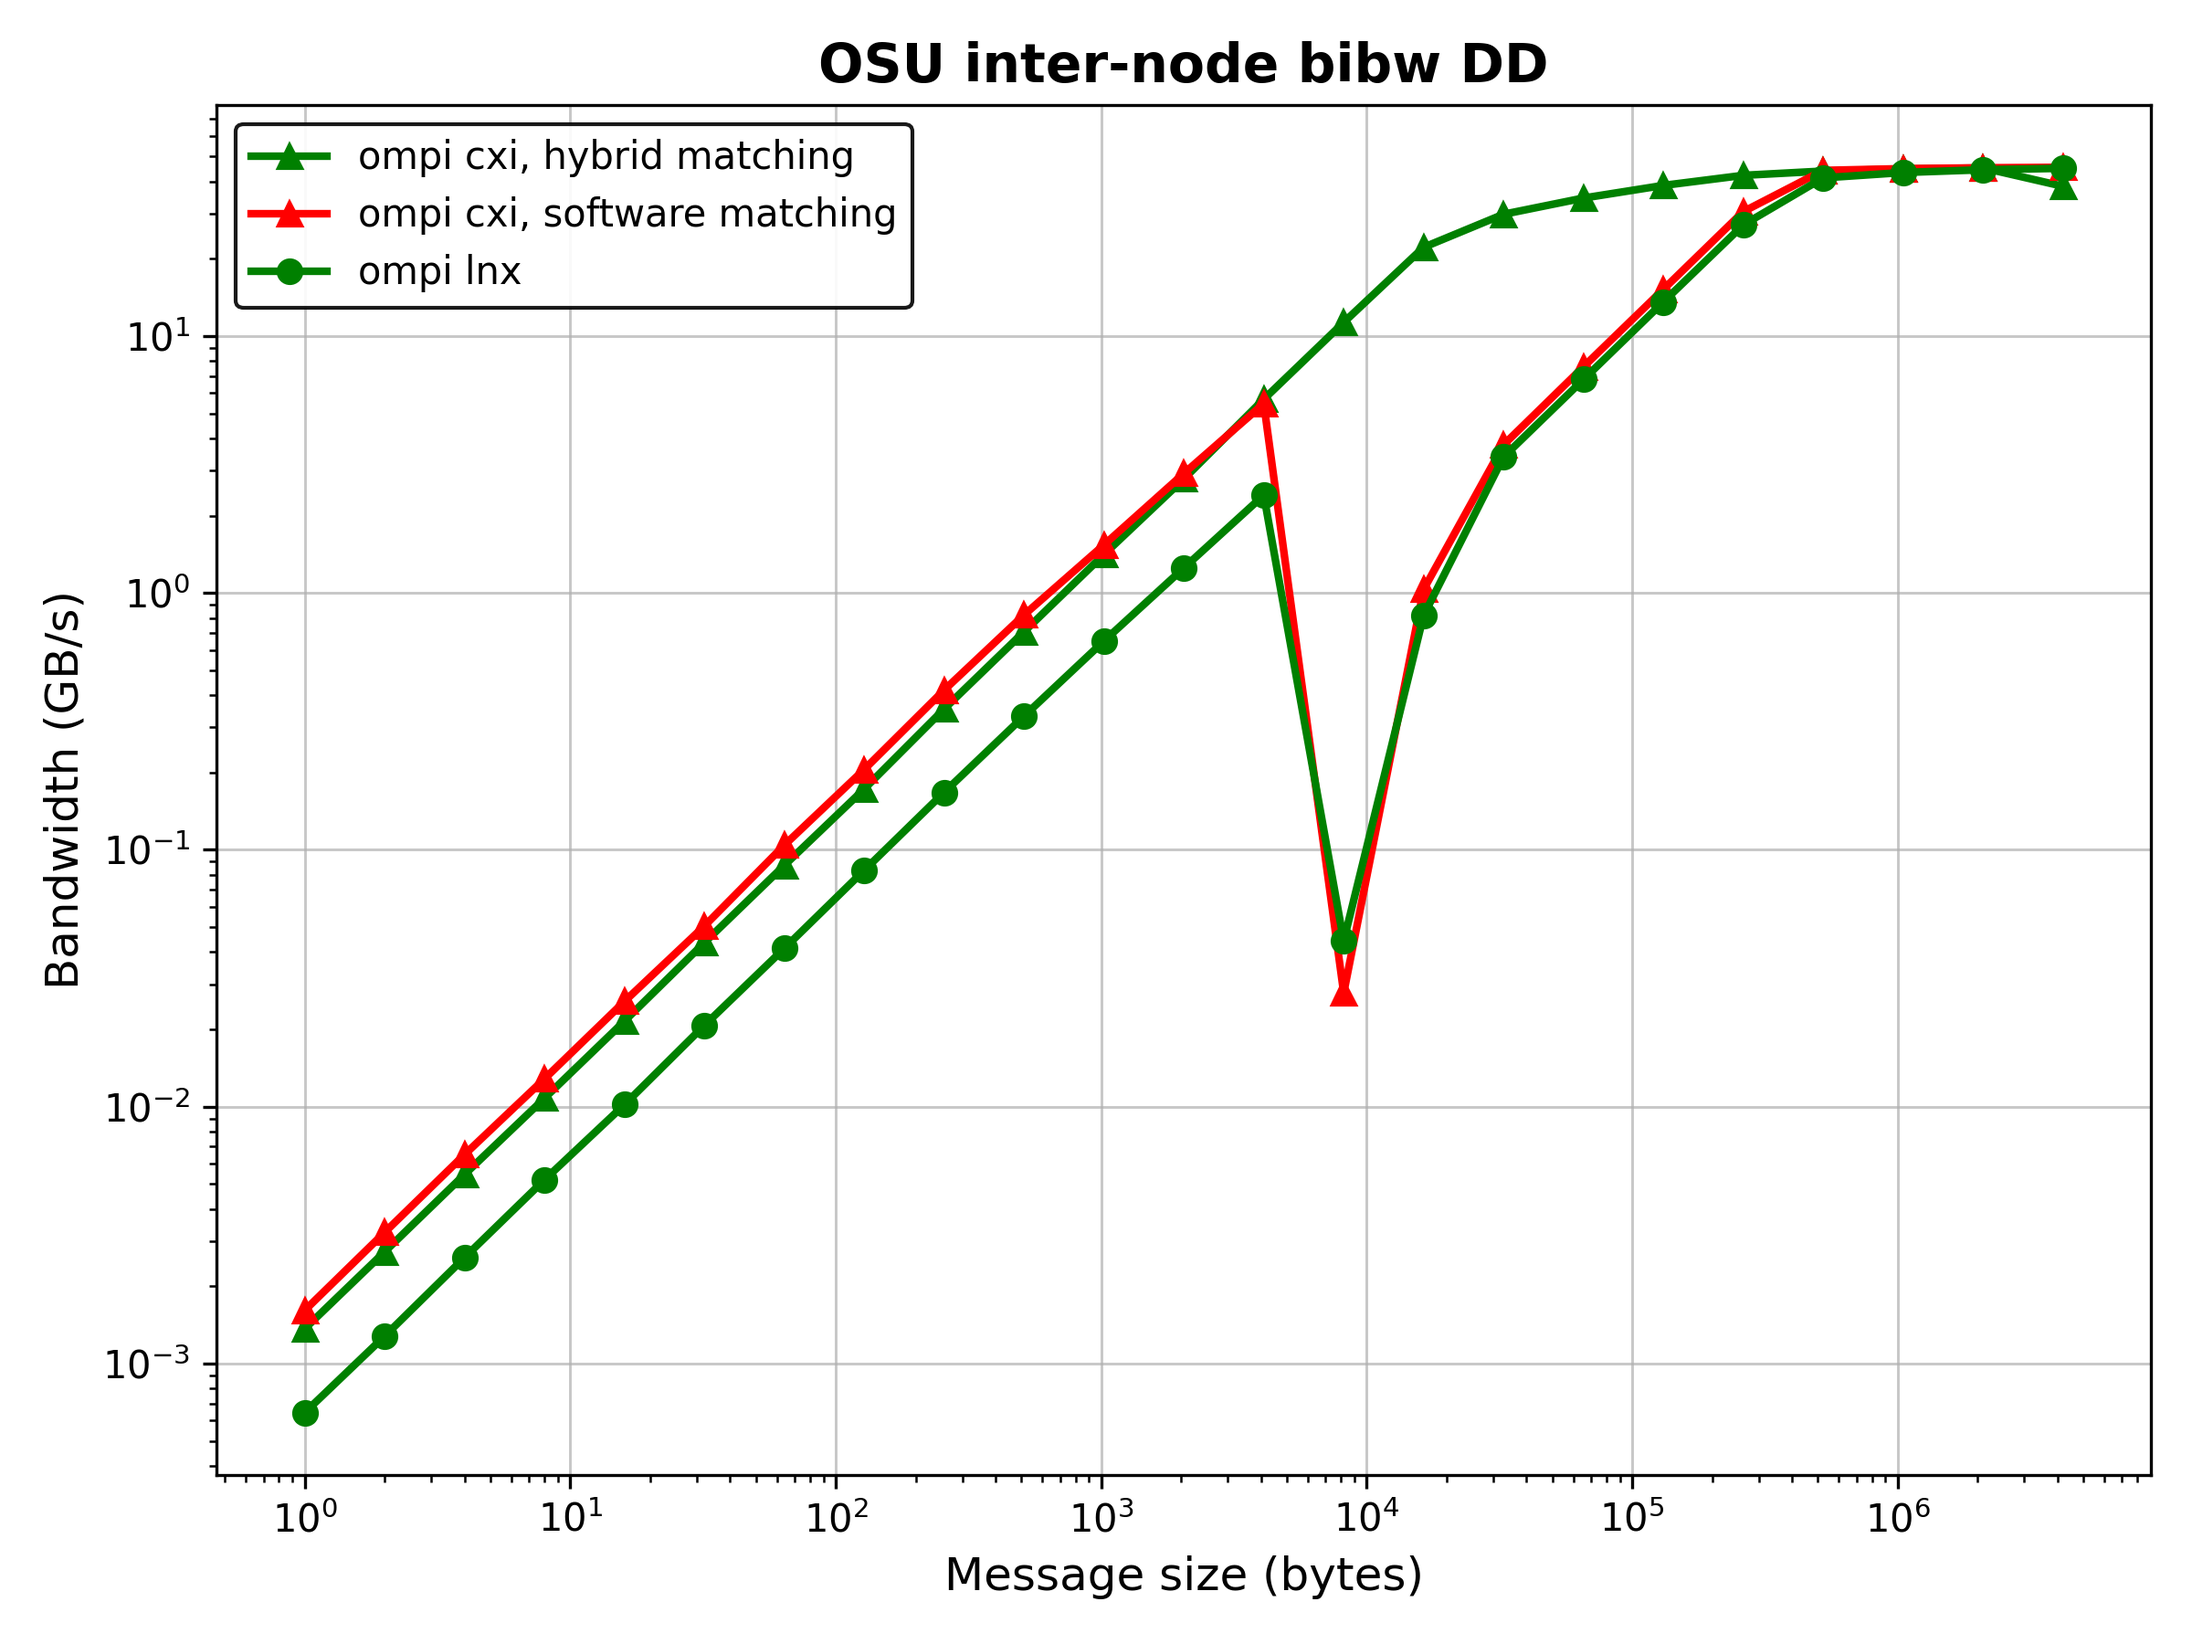
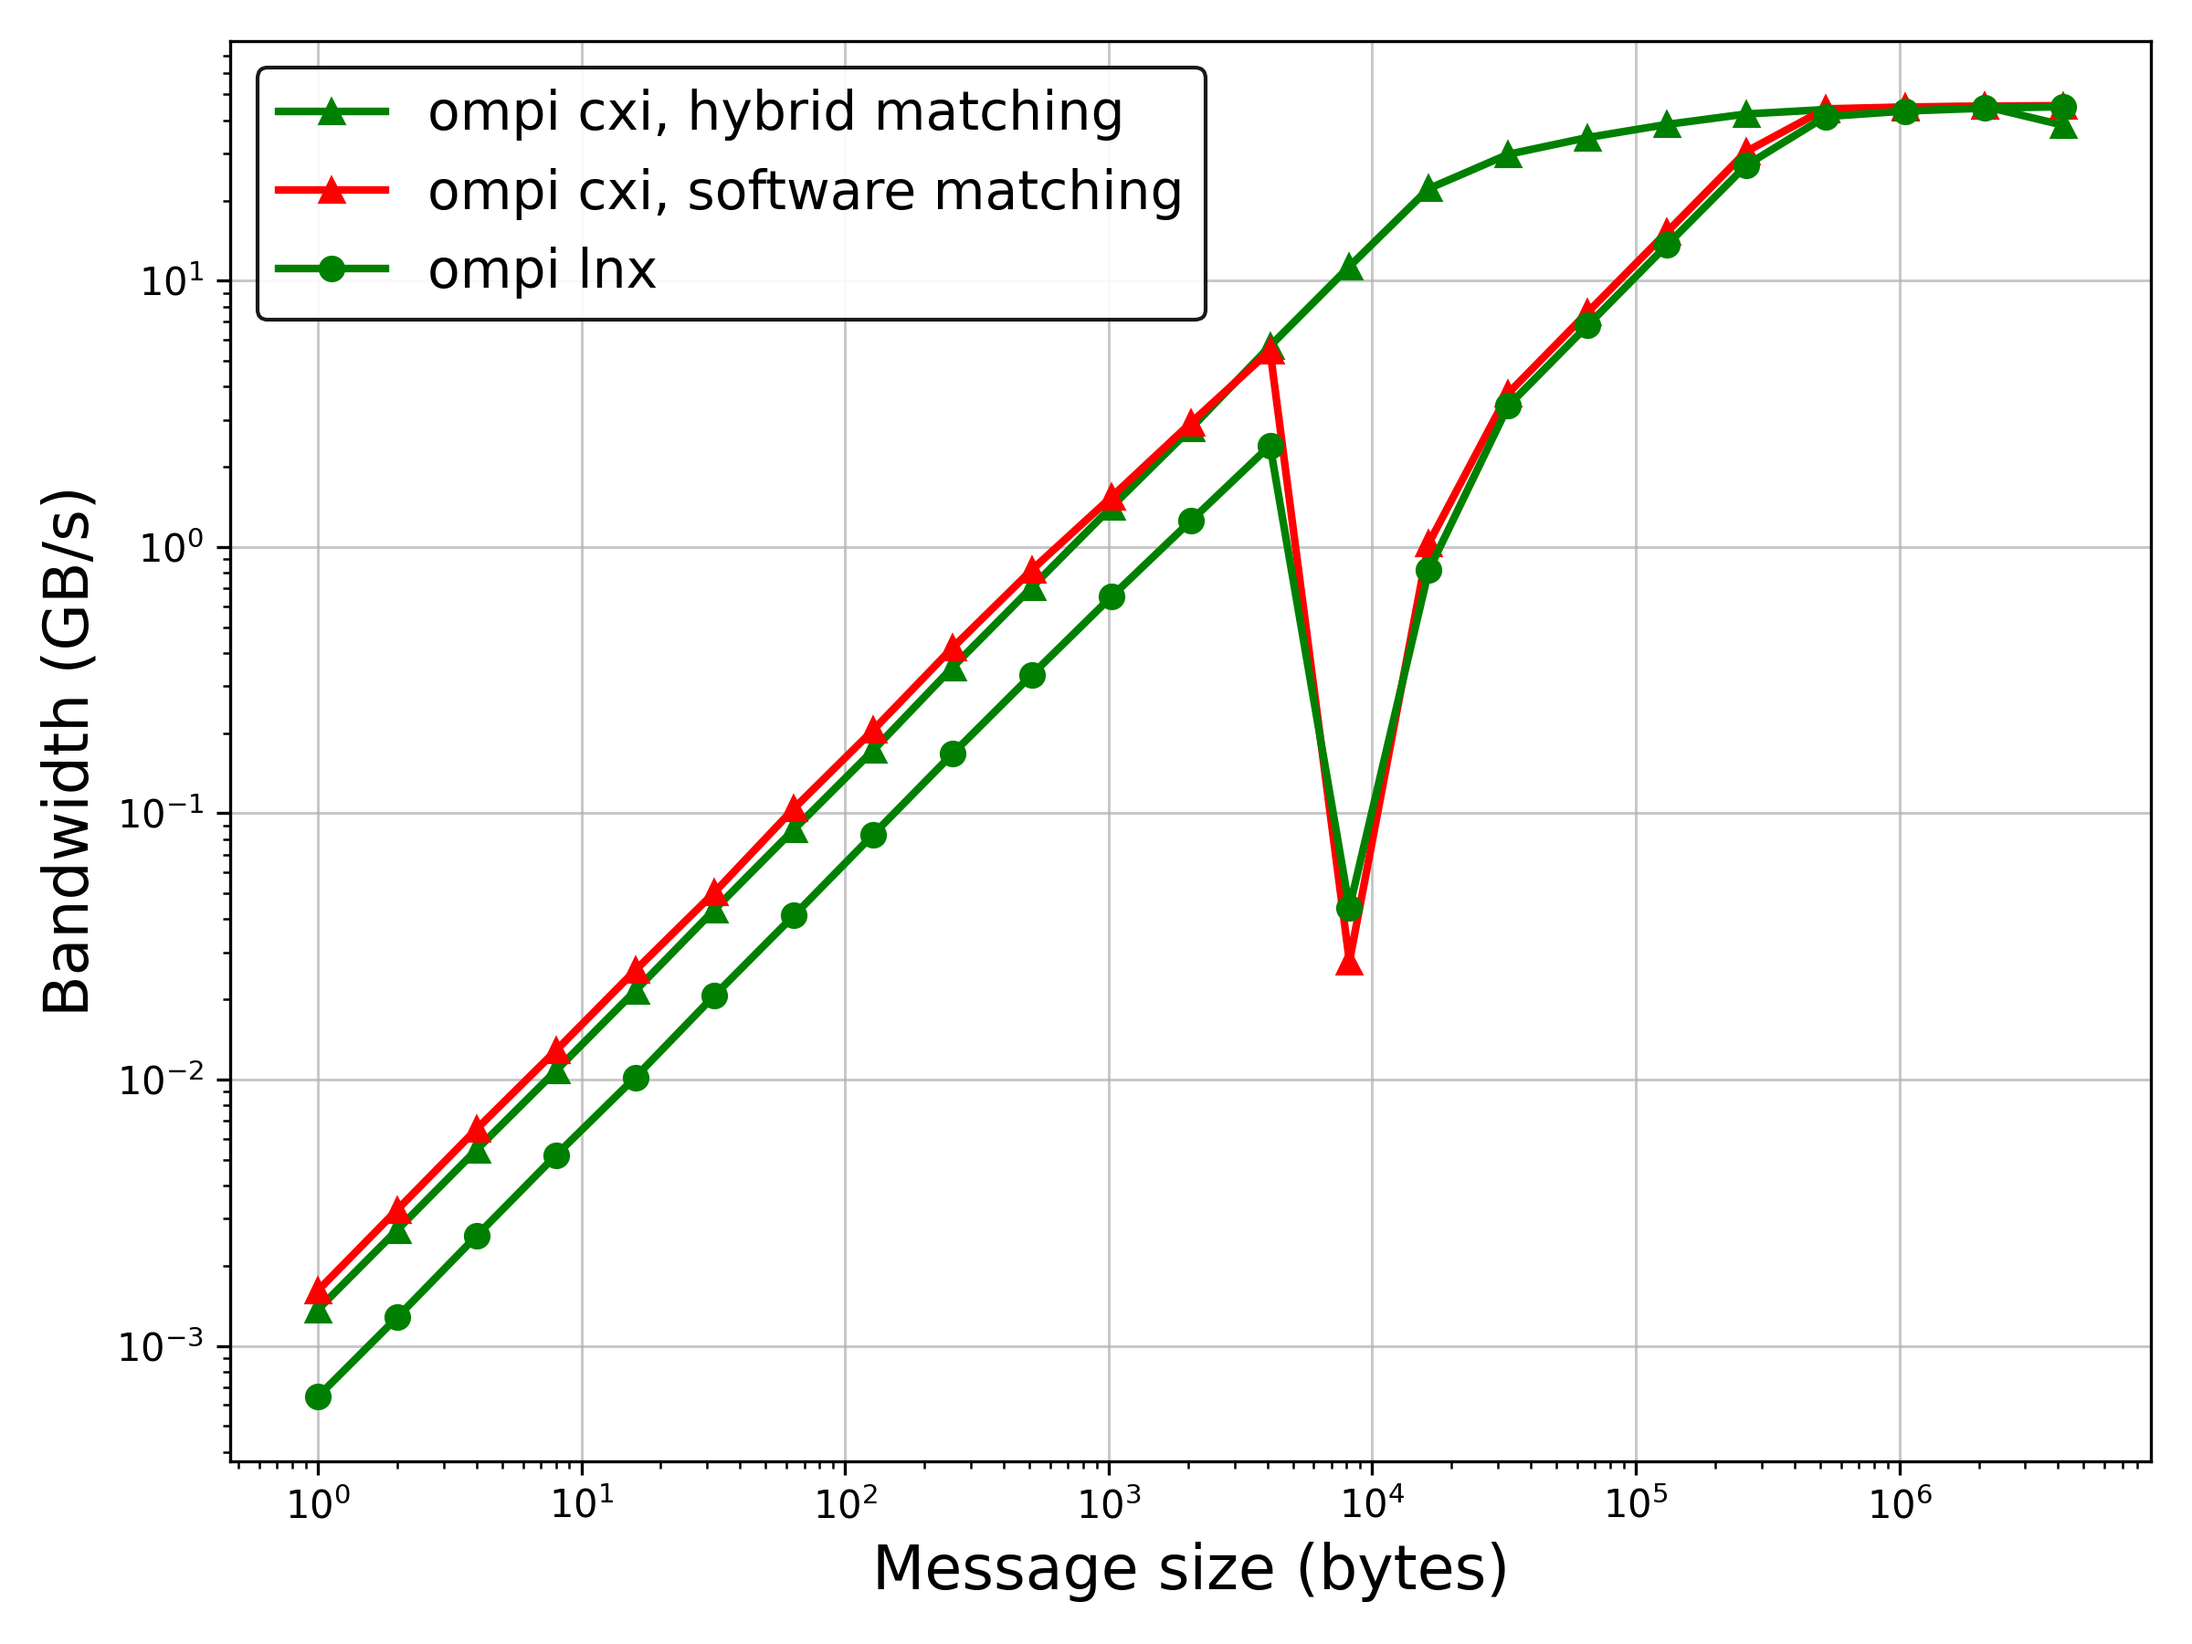
remove title in P2P and increase font

diff --git a/plots/plot.py b/plots/plot.py
@@ -21,6 +21,8 @@ COLOR_CYCLE = ['b', 'g', 'r', 'm', 'c', 'y']
 LINESTYLE_CYCLE = ['-', '--', '-.', ':']
 MARKER_CYCLE = ['o', 's', 'D', '^', 'v', 'x']
 
+font_size=16
+
 def parse_nccl_file(path):
     """
     Parse an nccl-tests result file.
@@ -186,7 +188,7 @@ def main():
             "(same order as --files), e.g. 'r-o' 'g--' 'b^:'. "
             "If omitted, built-in color/marker cycles are used."
         ),
-    )    
+    )
     args = parser.parse_args()
 
     files = [Path(f) for f in args.files]
@@ -236,11 +238,11 @@ def main():
                 marker=marker,
                 markersize=6,
                 linewidth=2,
-            )    
+            )
 
     plt.xscale("log", base=10)
     plt.yscale("log", base=10)
-    plt.xlabel("Message size (bytes)", fontsize=12)
+    plt.xlabel("Message size (bytes)", fontsize=font_size)
 
     # Build y-label depending on what we actually plotted
     if len(quantities) == 1 and len(units) == 1:
@@ -250,15 +252,15 @@ def main():
     else:
         # Mixed plot
         ylabel = "Metric"
-    plt.ylabel(ylabel, fontsize=12)
+    plt.ylabel(ylabel, fontsize=font_size)
 
-    plt.title(args.title, fontsize=14, fontweight="bold")
+    plt.title(args.title, fontsize=font_size+2, fontweight="bold")
 
     # Style similar to your example: grid, legend box with white background
     plt.grid(True, which="major", linestyle="-", linewidth=0.7, alpha=0.7)
     legend = plt.legend(
         loc="best",
-        fontsize=10,
+        fontsize=font_size-2,
         frameon=True,
     )
     legend.get_frame().set_alpha(0.9)
